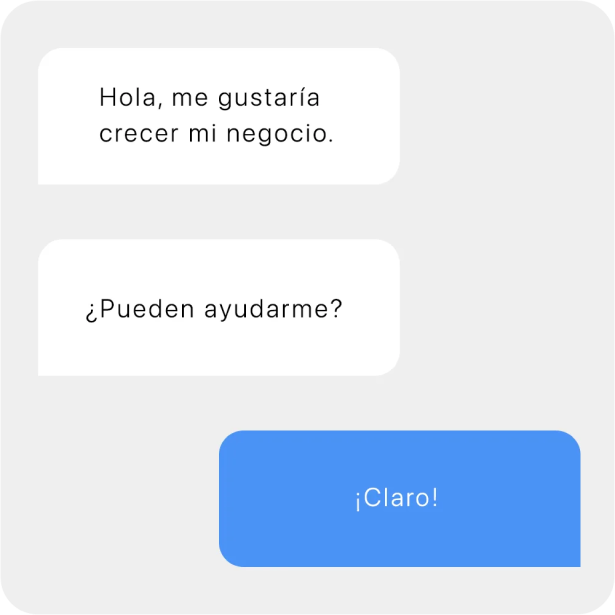
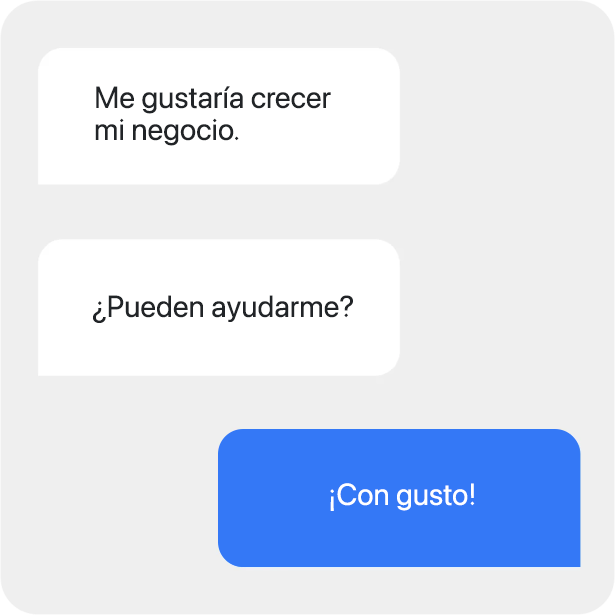
15:52

Changed region(s): [[0.3398, 0.6797, 0.9577, 0.9268], [0.1545, 0.1236, 0.5561, 0.2472], [0.1236, 0.4634, 0.587, 0.5252]]

diff --git a/css/style.css b/css/style.css
@@ -498,7 +498,7 @@ h1 span{
   height: 15%;
   width: 40%;
   flex-shrink: 3;
-  background: #4070F4;
+  background: #3478f6;
   border: none;
   border-radius: 20px;
   color: white;
